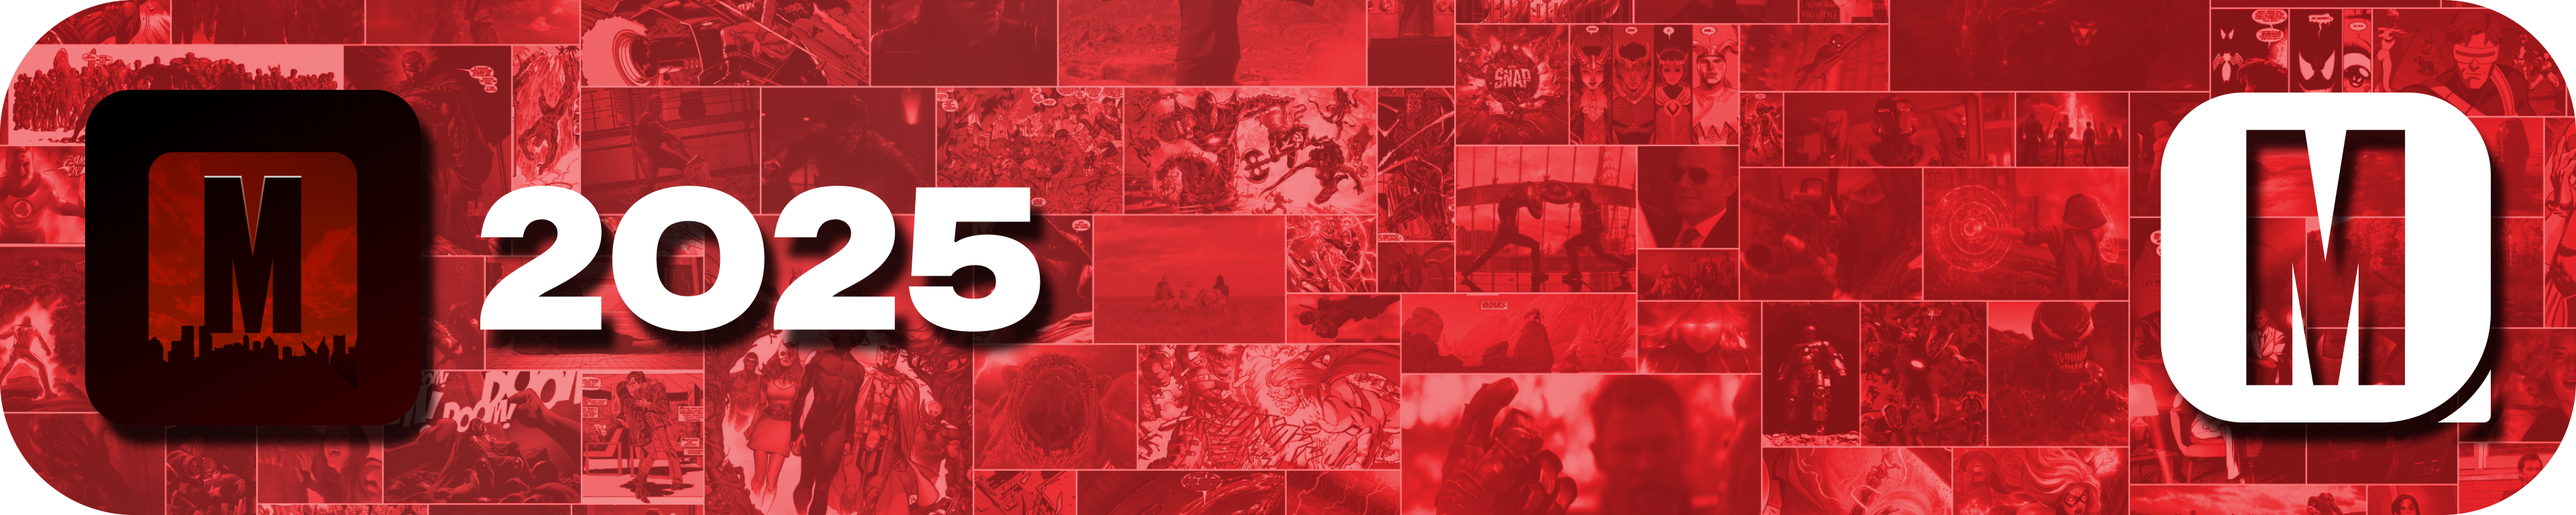
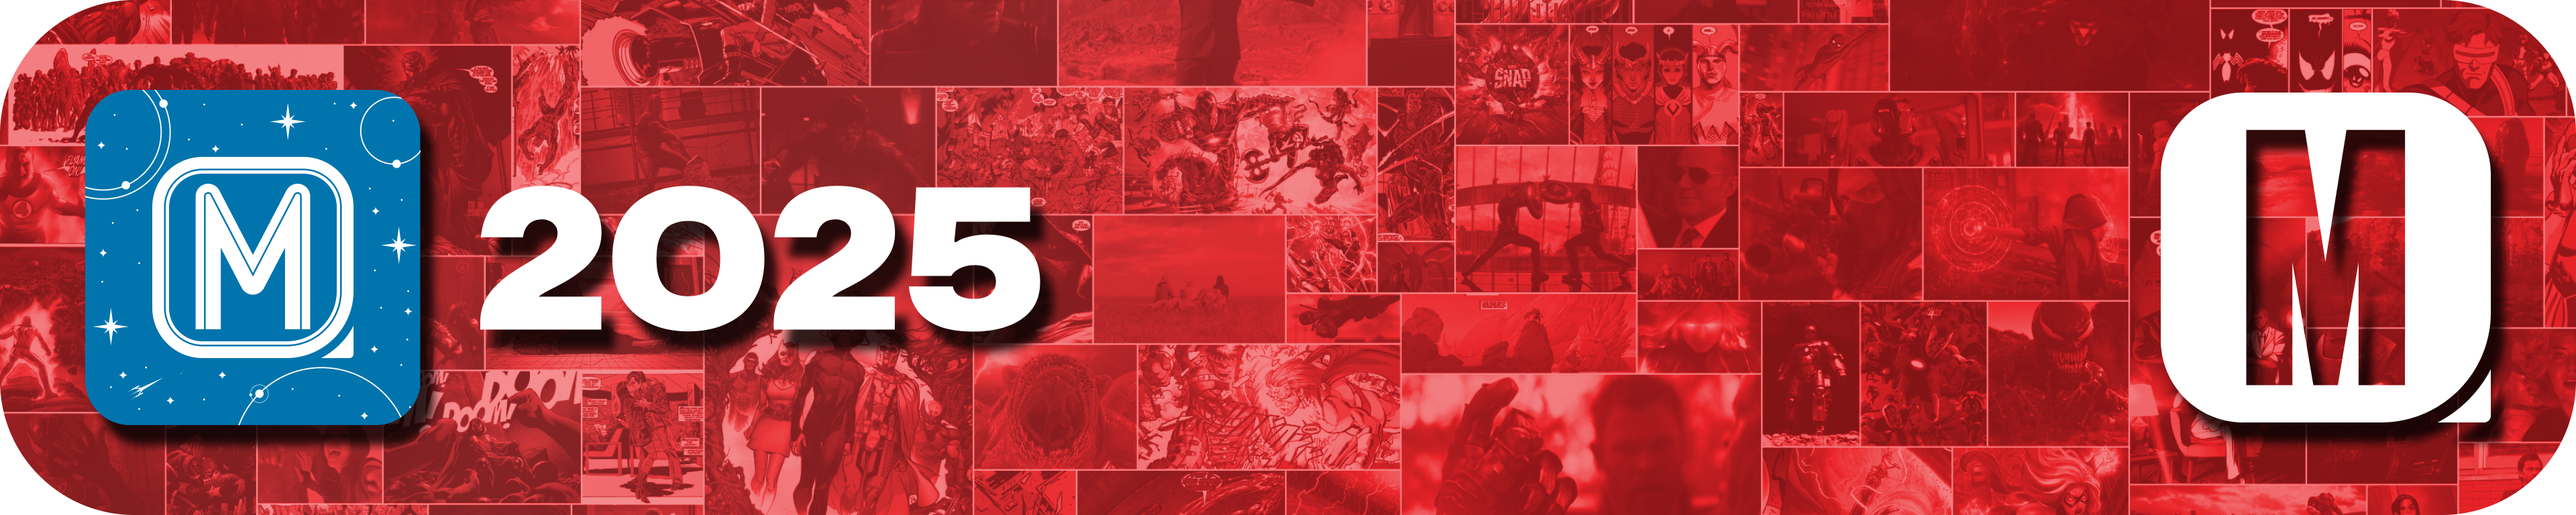
feat: updated graphic and staff names (#38)
* feat: updated year graphic

* feat: updated staff names

* fix: spellcheck

* feat: extra blurple text

Changed region(s): [[0.0312, 0.1562, 0.1875, 0.8438]]

diff --git a/docs/moderation/moderation.md b/docs/moderation/moderation.md
@@ -19,7 +19,7 @@ The moderation team comprises of the @[Watcher (Moderation)](0) and @[Ultimate (
 
 Watchers are full-time moderators. They have the full responsibilities of a moderator with full moderation capabilities, including bans and appeals.
 
-The current Watcher team consists of @[gryphyn](425133411837935628), @[shake.png](1034384071415050300), @[cs0119](582080465482285056), @[devil_jin_987](1107591484624093184), @[morganstarkk](1164870671302660222), @[sean](853459869218897970), and @[vokzul](162453378364997633).
+The current Watcher team consists of @[gryphyn](425133411837935628), @[shake.png](1034384071415050300), @[aurorassummer](1372392956819935383), @[cs0119](582080465482285056), @[ducki_the_great](1173791198545203212), @[m1.k3](179401941334491138), @[milkaatea](816736666361528381), @[morganstarkk](1164870671302660222), and @[vokzul](162453378364997633).
 
 ### Ultimates (Casual Moderators)
 

diff --git a/docs/management/bots/blurple.md b/docs/management/bots/blurple.md
@@ -4,7 +4,7 @@ sidebar_label: Blurple
 
 # Blurple
 
-[Project Blurple](https://projectblurple.com/) was an annual community event that occurred over the course of a week each May, centred around Discord's anniversary. Part of this event included cross-server activities through the Blurplefied and Blurple Canvas bots.
+[Project Blurple](https://projectblurple.com/) was an annual community event that occurred over the course of a week each May, centred around Discord's anniversary. Part of this event included cross-server activities through the Blurplefied and Blurple Canvas bots. This event is no longer active outside of Canvas.
 
 :::info
 This event was founded by Rocked! Blurple Canvas, as well as earlier versions of other bots were developed by Rocked. The event is no longer active, however Canvas remains an annual event.

diff --git a/docs/management/management.md b/docs/management/management.md
@@ -19,7 +19,7 @@ The management team comprises of the @&[Celestial (Manager)](0) role.
 
 Currently, there is only one management role, which encompasses all management responsibilities.
 
-The current Celestial team consists of @[rocked03](204778476102877187), @[gryphyn](425133411837935628), @[julianinvictus](621018366655725570), @[neverrmett](734640971232444486), @[rixov](1289511684058120193), @[shake.png](1034384071415050300), and @[bowgaming](299977242870808577).
+The current Celestial team consists of @[rocked03](204778476102877187), @[bowgaming](299977242870808577), @[gryphyn](425133411837935628), @[julianinvictus](621018366655725570), @[neverrmett](734640971232444486), @[rixov](1289511684058120193), and @[shake.png](1034384071415050300).
 
 #### Permissions
 

diff --git a/docs/management/affiliations.md b/docs/management/affiliations.md
@@ -40,7 +40,9 @@ Conversely, we provide our own server information to the affiliates for them to 
 
 ## Our affiliation info
 
-> _Join THE server for everything Marvel! Made by fans, for fans, we chat about the comics, films, shows, games, and more!_ > https://discord.gg/marvel
+> _Join THE server for everything Marvel! Made by fans, for fans, we chat about the comics, films, shows, games, and more!_
+>
+> https://discord.gg/marvel
 
 ![Banner wide](/img/affiliations/Banner_wide_rounded.png)
 ![Banner wide squared](/img/affiliations/Banner_wide_corners.png)
